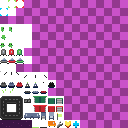
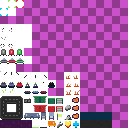
more entities

diff --git a/src/entity.c b/src/entity.c
@@ -340,8 +340,8 @@ static void tick_truck(entity *e) {
                 35);
         }
 
-        // TODO: variable speed
-        if (entity_move_on_path(e, 0.35f, true, &e->last_move, &e->truck.dir)) {
+        const f32 speed = 0.35f + state->stats.truck_speed_level * 0.15f;
+        if (entity_move_on_path(e, speed, true, &e->last_move, &e->truck.dir)) {
             state_set_stage(state, STAGE_DONE);
         }
     }
@@ -400,6 +400,24 @@ int priority_alien_target(entity *e, entity *alien) {
     return mod * invdist;
 }
 
+static int alien_path_weight(const level *l, ivec2s p, void*) {
+    if (!level_tile_in_bounds(p)) {
+        return -1;
+    }
+
+    tile_type tile = l->tiles[p.x][p.y];
+    switch (tile) {
+    case TILE_MOUNTAIN: return -1;
+    case TILE_LAKE: return -1;
+    case TILE_SLUDGE: return 5;
+    case TILE_MARSH: return 3;
+    case TILE_STONE: return 2;
+    default:
+    }
+
+    return 1;
+}
+
 void tick_alien(entity *e) {
     e->last_move = VEC2S(0);
 
@@ -436,7 +454,7 @@ path:
             &e->path,
             e->tile,
             target->tile,
-            level_path_default_weight,
+            alien_path_weight,
             NULL);
 
     if (!success) {
@@ -750,13 +768,19 @@ static void draw_alien(entity *e) {
     default: ASSERT(false);
     }
 
+    vec4s color = palette_get(E_INFO(e)->palette);
+
+    if (e->type == ENTITY_ALIEN_GHOST) {
+        color.a = 0.6f;
+    }
+
     gfx_batcher_push_sprite(
         &state->batcher,
         &state->atlas.tile,
         &(gfx_sprite) {
             .pos = glms_vec2_add(e->pos, IVEC2S2V(sprite_offset)),
             .index = glms_ivec2_add(base, index_offset),
-            .color = COLOR_WHITE,
+            .color = color,
             .z = Z_LEVEL_ENTITY_OVERLAY,
             .flags = flags
         });
@@ -777,6 +801,14 @@ static void draw_alien(entity *e) {
 
 static bool can_place_basic(ivec2s tile) {
     if (!level_tile_in_bounds(tile)) { return false; }
+
+    switch (state->level->tiles[tile.x][tile.y]) {
+    case TILE_BASE: return true;
+    case TILE_MARSH: return true;
+    default:
+    }
+
+    return false;
 
     dlist_each(tile_node, &state->level->tile_entities[tile.x][tile.y], it) {
         const int flags = ENTITY_INFO[it.el->type].flags;
@@ -1056,6 +1088,101 @@ entity_info ENTITY_INFO[ENTITY_TYPE_COUNT] = {
         },
         .base = {
             .health = 10
+        },
+    },
+    [ENTITY_ALIEN_L1] = {
+        .base_sprite = {{ 0, 10 }},
+        .draw = draw_alien,
+        .tick = tick_alien,
+        .flags = EIF_ENEMY | EIF_ALIEN,
+        .aabb = {
+            .min = {{ 0, 0 }},
+            .max = {{ 4, 4 }}
+        },
+        .palette = PALETTE_ALIEN_RED,
+        .enemy = {
+            .speed = 1.2f,
+            .strength = 1.2f,
+            .bounty = 15
+        },
+        .base = {
+            .health = 15
+        },
+    },
+    [ENTITY_ALIEN_L2] = {
+        .base_sprite = {{ 0, 10 }},
+        .draw = draw_alien,
+        .tick = tick_alien,
+        .flags = EIF_ENEMY | EIF_ALIEN,
+        .aabb = {
+            .min = {{ 0, 0 }},
+            .max = {{ 4, 4 }}
+        },
+        .palette = PALETTE_ALIEN_BLUE,
+        .enemy = {
+            .speed = 1.4f,
+            .strength = 1.4f,
+            .bounty = 25
+        },
+        .base = {
+            .health = 25
+        },
+    },
+    [ENTITY_ALIEN_FAST] = {
+        .base_sprite = {{ 0, 10 }},
+        .draw = draw_alien,
+        .tick = tick_alien,
+        .flags = EIF_ENEMY | EIF_ALIEN,
+        .aabb = {
+            .min = {{ 0, 0 }},
+            .max = {{ 4, 4 }}
+        },
+        .palette = PALETTE_ALIEN_YELLOW,
+        .enemy = {
+            .speed = 2.2f,
+            .strength = 0.9f,
+            .bounty = 50
+        },
+        .base = {
+            .health = 10
+        },
+    },
+    [ENTITY_ALIEN_TANK] = {
+        .base_sprite = {{ 0, 10 }},
+        .draw = draw_alien,
+        .tick = tick_alien,
+        .flags = EIF_ENEMY | EIF_ALIEN,
+        .aabb = {
+            .min = {{ 0, 0 }},
+            .max = {{ 4, 4 }}
+        },
+        .palette = PALETTE_ALIEN_GREY,
+        .enemy = {
+            .speed = 0.5f,
+            .strength = 2.5f,
+            .bounty = 100
+        },
+        .base = {
+            .health = 50
+        },
+    },
+    [ENTITY_ALIEN_GHOST] = {
+        .base_sprite = {{ 0, 10 }},
+        .draw = draw_alien,
+        .tick = tick_alien,
+        .flags = EIF_ENEMY | EIF_ALIEN,
+        .aabb = {
+            .min = {{ 0, 0 }},
+            .max = {{ 4, 4 }}
+        },
+        .palette = PALETTE_ALIEN_GREY,
+        .enemy = {
+            .speed = 1.4f,
+            .strength = 1.2f,
+            .bounty = 100
+        },
+        .base = {
+            .health = 20
         },
     },
     [ENTITY_SHIP_L0] = {

diff --git a/src/level.c b/src/level.c
@@ -16,6 +16,11 @@ static const char char_to_tile[256] = {
     ['r'] = TILE_ROAD,
     ['S'] = TILE_WAREHOUSE_START,
     ['F'] = TILE_WAREHOUSE_FINISH,
+    ['m'] = TILE_MOUNTAIN,
+    ['l'] = TILE_LAKE,
+    ['t'] = TILE_STONE,
+    ['d'] = TILE_SLUDGE,
+    ['h'] = TILE_MARSH,
 };
 
 static const entity_type char_to_entity[256] = {
@@ -191,7 +196,7 @@ static void tile_draw(
     const level *level, ivec2s lpos, tile_type tile) {
     ivec2s index = {{ 0, 0 }};
     f32 z = Z_LEVEL_BASE;
-    struct rand rng = rand_create(lpos.x * (lpos.y * 13));
+    struct rand rng = rand_create(tile + (lpos.x << 11) ^ (lpos.y * 13));
 
     switch (tile) {
     case TILE_COUNT: ASSERT(false);
@@ -201,6 +206,48 @@ static void tile_draw(
             0 + rand_n(&rng, 0, 3),
             0,
         }};
+
+        if (level->tiles[lpos.x][lpos.y] == tile
+            && rand_chance(&rng, 0.21f)) {
+            // draw grass
+            gfx_batcher_push_sprite(
+                &state->batcher,
+                &state->atlas.tile,
+                &(gfx_sprite) {
+                    .pos = {{ lpos.x * TILE_SIZE_PX, lpos.y * TILE_SIZE_PX }},
+                    .index = {{ 8 + (state->time.animtick % 2), 4 + rand_n(&rng, 0, 2) }},
+                    .color = COLOR_WHITE,
+                    .z = z - 0.0001f,
+                    .flags = GFX_NO_FLAGS
+                });
+        }
+    } break;
+    case TILE_MARSH: {
+        index = (ivec2s) {{
+            10 + rand_n(&rng, 0, 3),
+            1,
+        }};
+    } break;
+    case TILE_SLUDGE: {
+        index = (ivec2s) {{
+            10 + rand_n(&rng, 0, 3),
+            0,
+        }};
+    } break;
+    case TILE_MOUNTAIN: {
+        tile_draw(level, lpos, TILE_BASE);
+        index = IVEC2S(8, 1);
+        z -= 0.001f;
+    } break;
+    case TILE_LAKE: {
+        tile_draw(level, lpos, TILE_BASE);
+        index = IVEC2S(9, 1 + state->time.animtick % 3);
+        z -= 0.001f;
+    } break;
+    case TILE_STONE: {
+        tile_draw(level, lpos, TILE_BASE);
+        index = IVEC2S(8, 2);
+        z -= 0.001f;
     } break;
     case TILE_ROAD: {
         tile_draw(level, lpos, TILE_BASE);

diff --git a/src/level_data.c b/src/level_data.c
@@ -5,15 +5,15 @@ level_data LEVELS[NUM_LEVELS] = {
         .title = "$35SPECIAL DELIVERY",
         .map = {
             "              F    ",
-            "              r    ",
+            "   mmm        r    ",
             "         x    r    ",
-            "   x          r    ",
-            "        rrrrrrr    ",
-            "        r          ",
-            "        r   x      ",
-            "Srrrrrrrr          ",
-            "               x   ",
-            "        x          ",
+            "   x    lllll r    ",
+            "  hhh   rrrrrrr    ",
+            "  ddd  mrl         ",
+            "      mmr   x  t   ",
+            "Srrrrrrrrl         ",
+            "  t            x   ",
+            "        x   t      ",
             "    x          x   ",
             "                   ",
             "                   ",

diff --git a/src/ui.c b/src/ui.c
@@ -582,8 +582,11 @@ static int get_building_reclaim_bonus(level *l) {
 
     dlist_each(node, &l->all_entities, it) {
         if (E_INFO(it.el)->flags & EIF_PLACEABLE) {
+            const int max_health = E_INFO(it.el)->max_health;
             const f32 condition =
-                ifnan(it.el->health / (f32) E_INFO(it.el)->max_health, 0);
+                max_health > 0 ?
+                    ifnan(it.el->health / (f32) E_INFO(it.el)->max_health, 0)
+                    : 1;
             res += E_INFO(it.el)->buy_price * condition;
         }
     }
@@ -722,6 +725,10 @@ static void draw_endgame() {
 }
 
 static void update_endgame() {
+    if (state->stage != STAGE_DONE) {
+        return;
+    }
+
     entity *truck = level_find_entity(state->level, ENTITY_TRUCK);
     const bool lost = !truck || truck->health <= 0;
 

diff --git a/src/defs.h b/src/defs.h
@@ -44,7 +44,7 @@
 #define COLOR_WHITE ((vec4s) {{ 1.0f, 1.0f, 1.0f, 1.0f }})
 #define COLOR_BLACK ((vec4s) {{ 0.0f, 0.0f, 0.0f, 0.0f }})
 
-#define START_MONEY 50
+#define START_MONEY 50000
 
 typedef enum {
     STAGE_MAIN_MENU,
@@ -60,6 +60,11 @@ typedef enum {
     TILE_ROAD,
     TILE_WAREHOUSE_START,
     TILE_WAREHOUSE_FINISH,
+    TILE_MOUNTAIN,
+    TILE_LAKE,
+    TILE_STONE,
+    TILE_SLUDGE,
+    TILE_MARSH,
     TILE_COUNT
 } tile_type;
 
@@ -91,6 +96,11 @@ typedef enum {
     ENTITY_DECOY_TRUCK,
     ENTITY_TRUCK,
     ENTITY_ALIEN_L0,
+    ENTITY_ALIEN_L1,
+    ENTITY_ALIEN_L2,
+    ENTITY_ALIEN_FAST,
+    ENTITY_ALIEN_TANK,
+    ENTITY_ALIEN_GHOST,
     ENTITY_SHIP_L0,
     ENTITY_SHIP_L1,
     ENTITY_SHIP_L2,

diff --git a/src/main.c b/src/main.c
@@ -286,6 +286,7 @@ static void frame() {
 
     for (u64 i = 0; i < state->time.frame_ticks; i++) {
         state->time.tick++;
+        state->time.animtick = state->time.tick / 20;
 
         if (state->stage != STAGE_MAIN_MENU) {
             level_tick(state->level);

diff --git a/src/palette.h b/src/palette.h
@@ -18,6 +18,9 @@
 #define PALETTE_ALIEN_GREEN 36
 #define PALETTE_ALIEN_GREY 6
 #define PALETTE_ALIEN_RED 61
+#define PALETTE_ALIEN_ORANGE 29
+#define PALETTE_ALIEN_YELLOW 33
+#define PALETTE_ALIEN_BLUE 44
 
 #define PALETTE_SKY 40
 

diff --git a/src/state.h b/src/state.h
@@ -40,6 +40,7 @@ typedef struct {
         u64 second_ticks, tps;
         u64 second_frames, fps;
         u64 tick;
+        u64 animtick;
     } time;
 
     struct {
